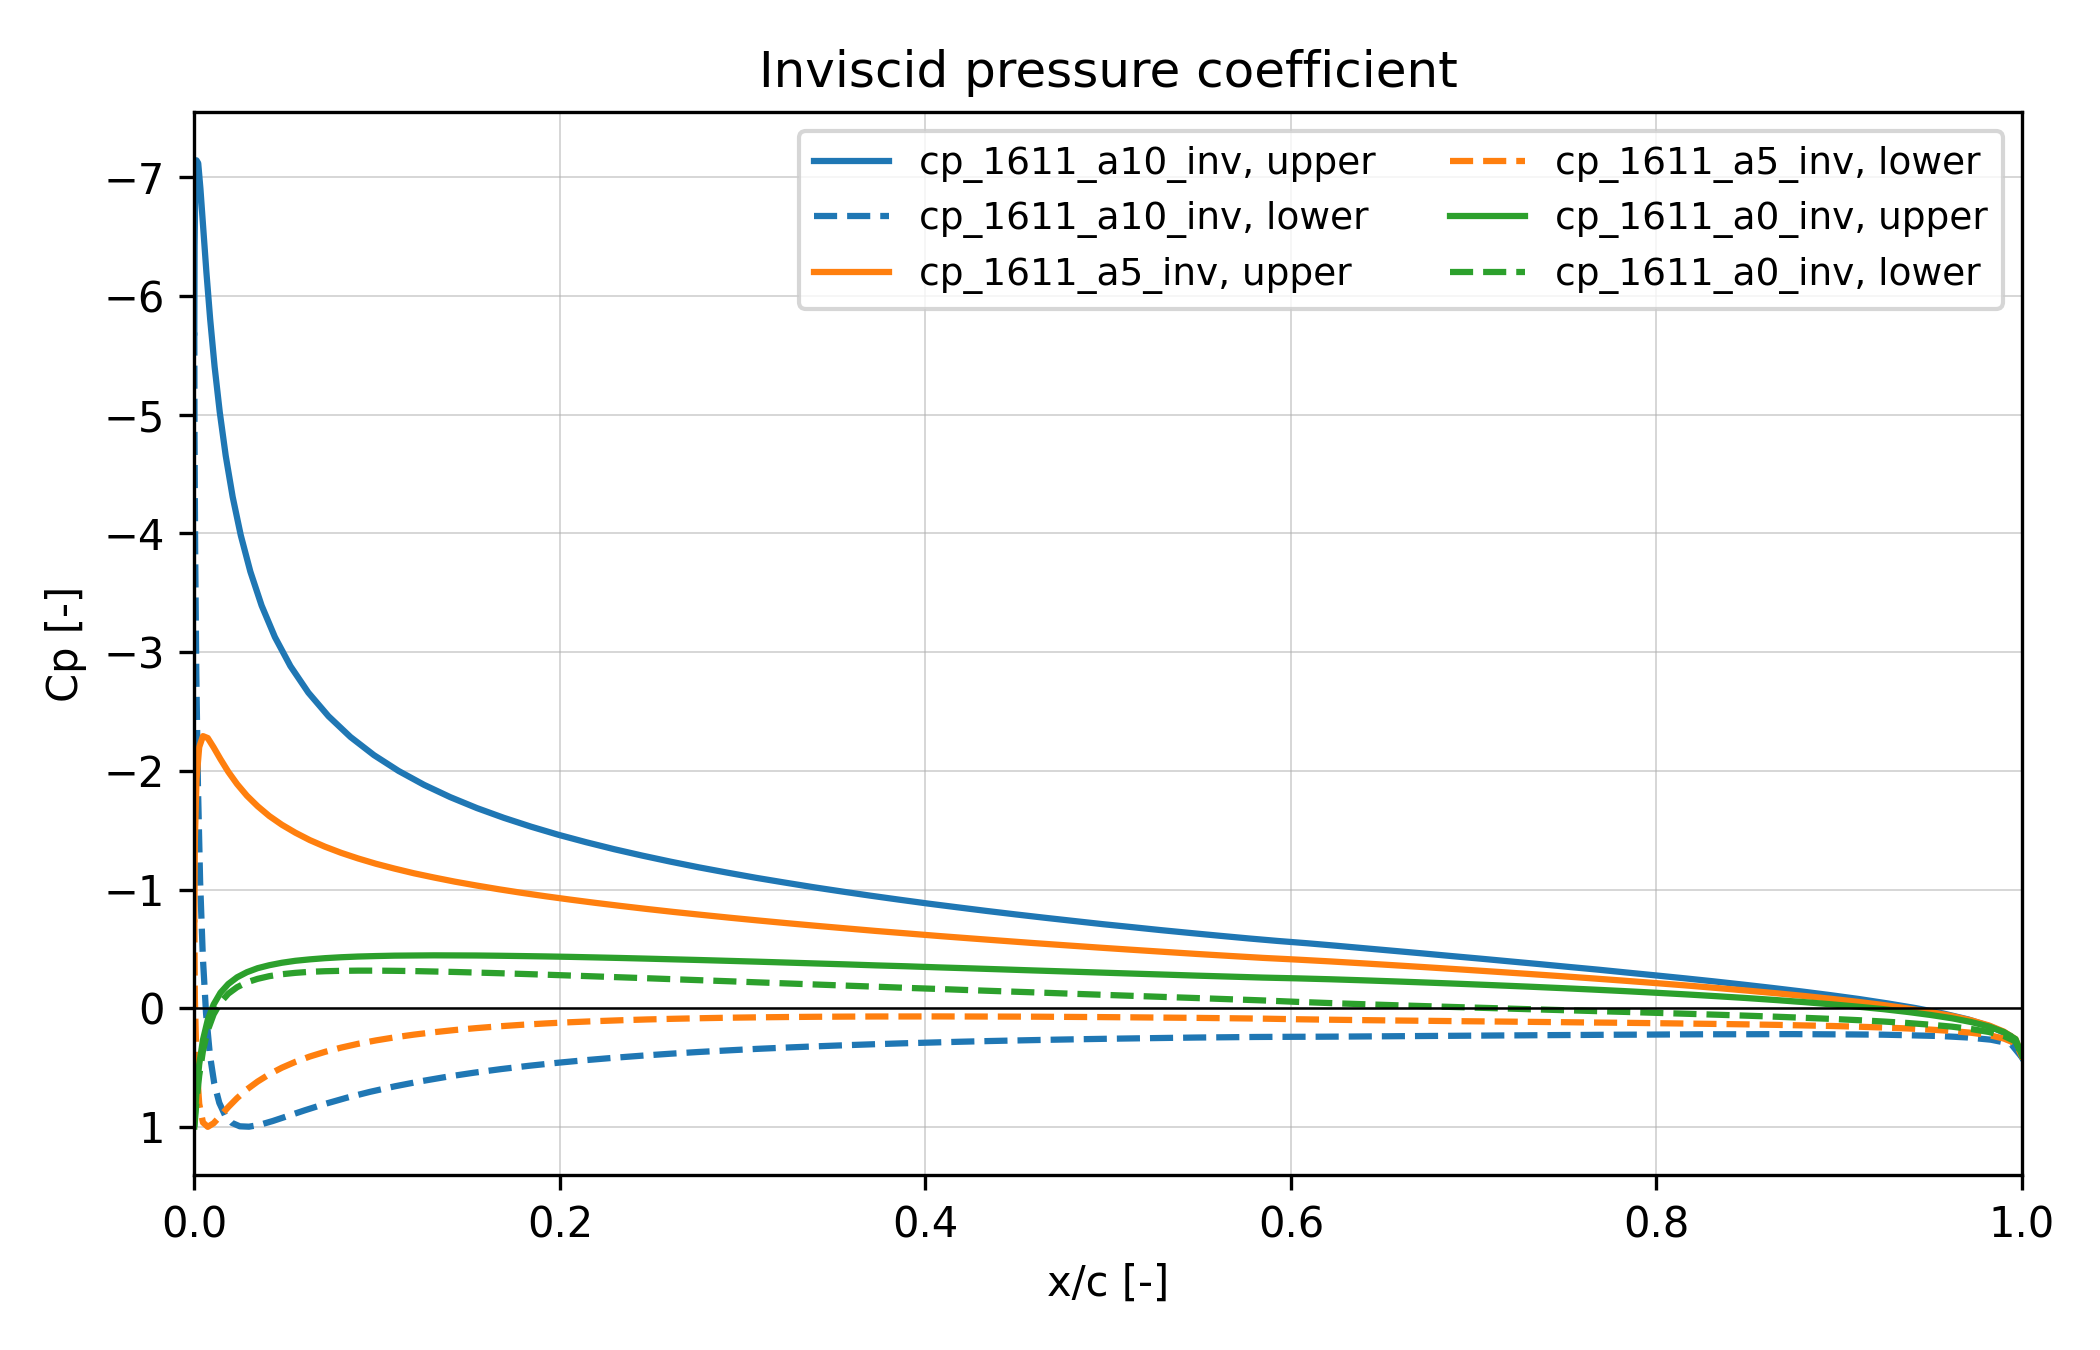
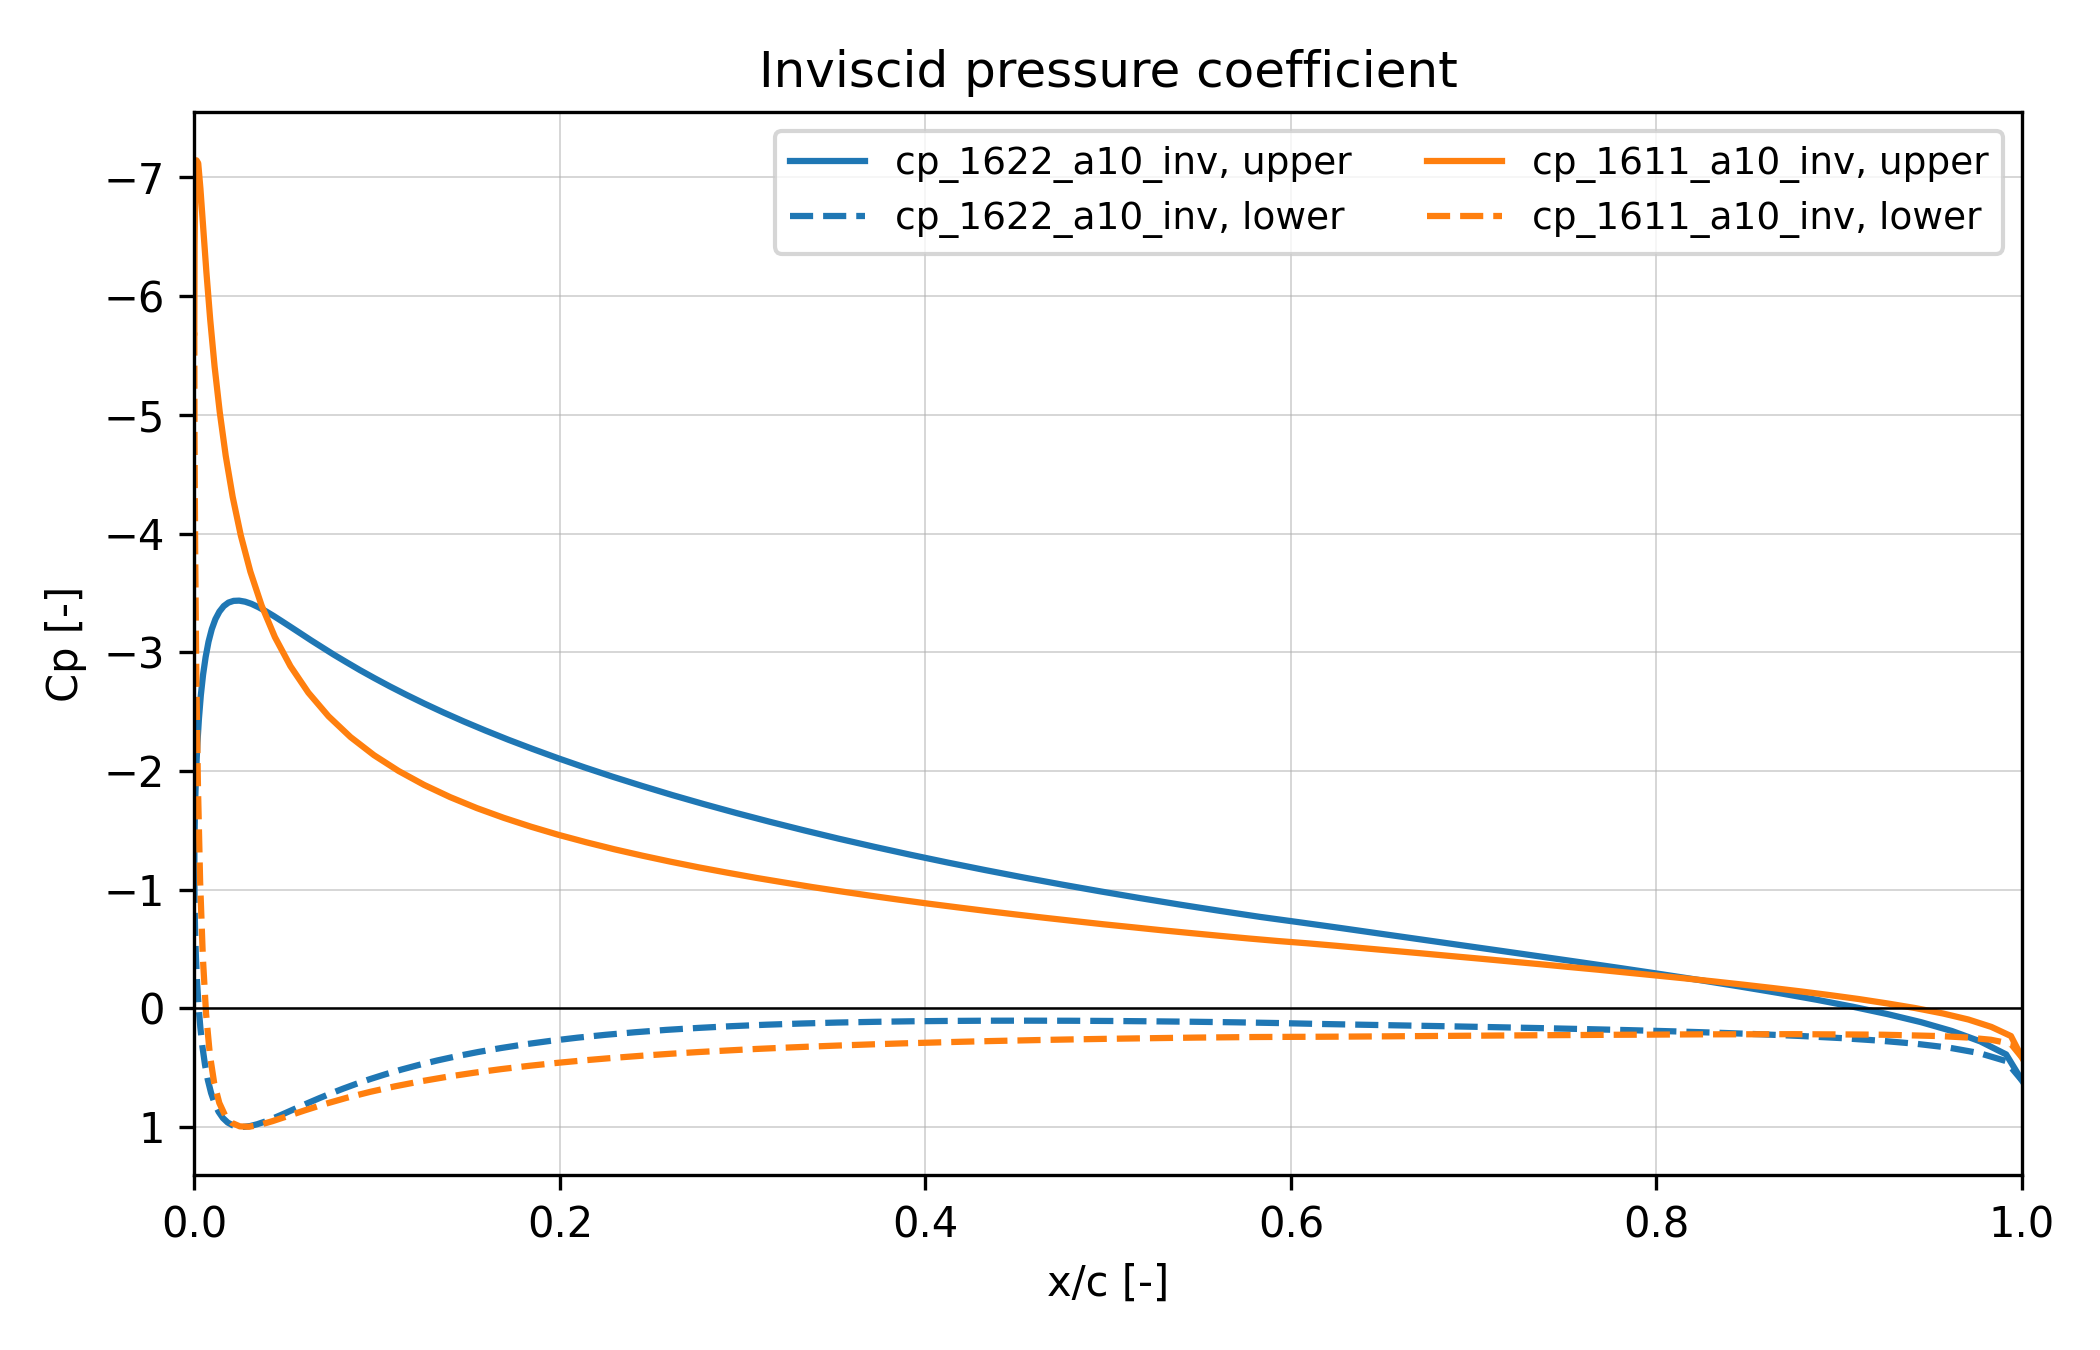
good one

diff --git a/post_plot.py b/post_plot.py
@@ -59,9 +59,8 @@ def make_cases(filenames):
 if __name__ == "__main__":
     # Add or remove filenames here to choose which cases are plotted together.
     files_to_plot = [
-        "cp_1611_a10_inv.txt",
-        "cp_1611_a5_inv.txt",
-        "cp_1611_a0_inv.txt",
+        "cp_1622_a10_inv.txt",
+        "cp_1611_a10_inv.txt"
     ]
 
     plot_cp(
